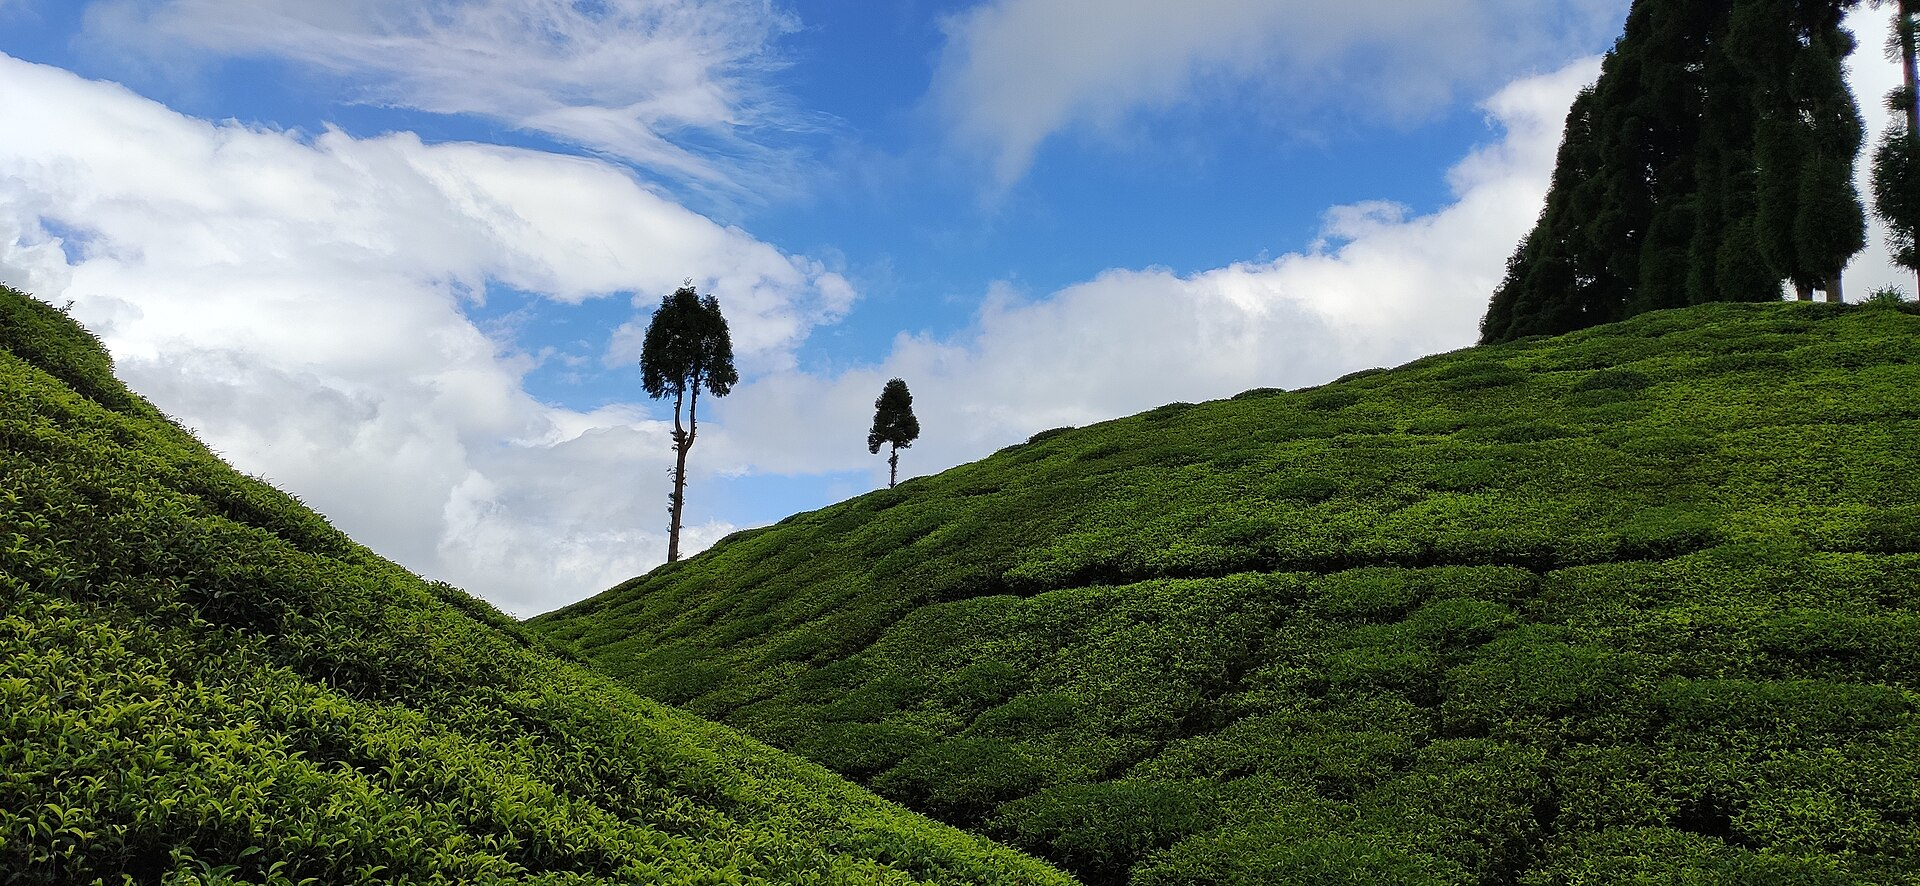
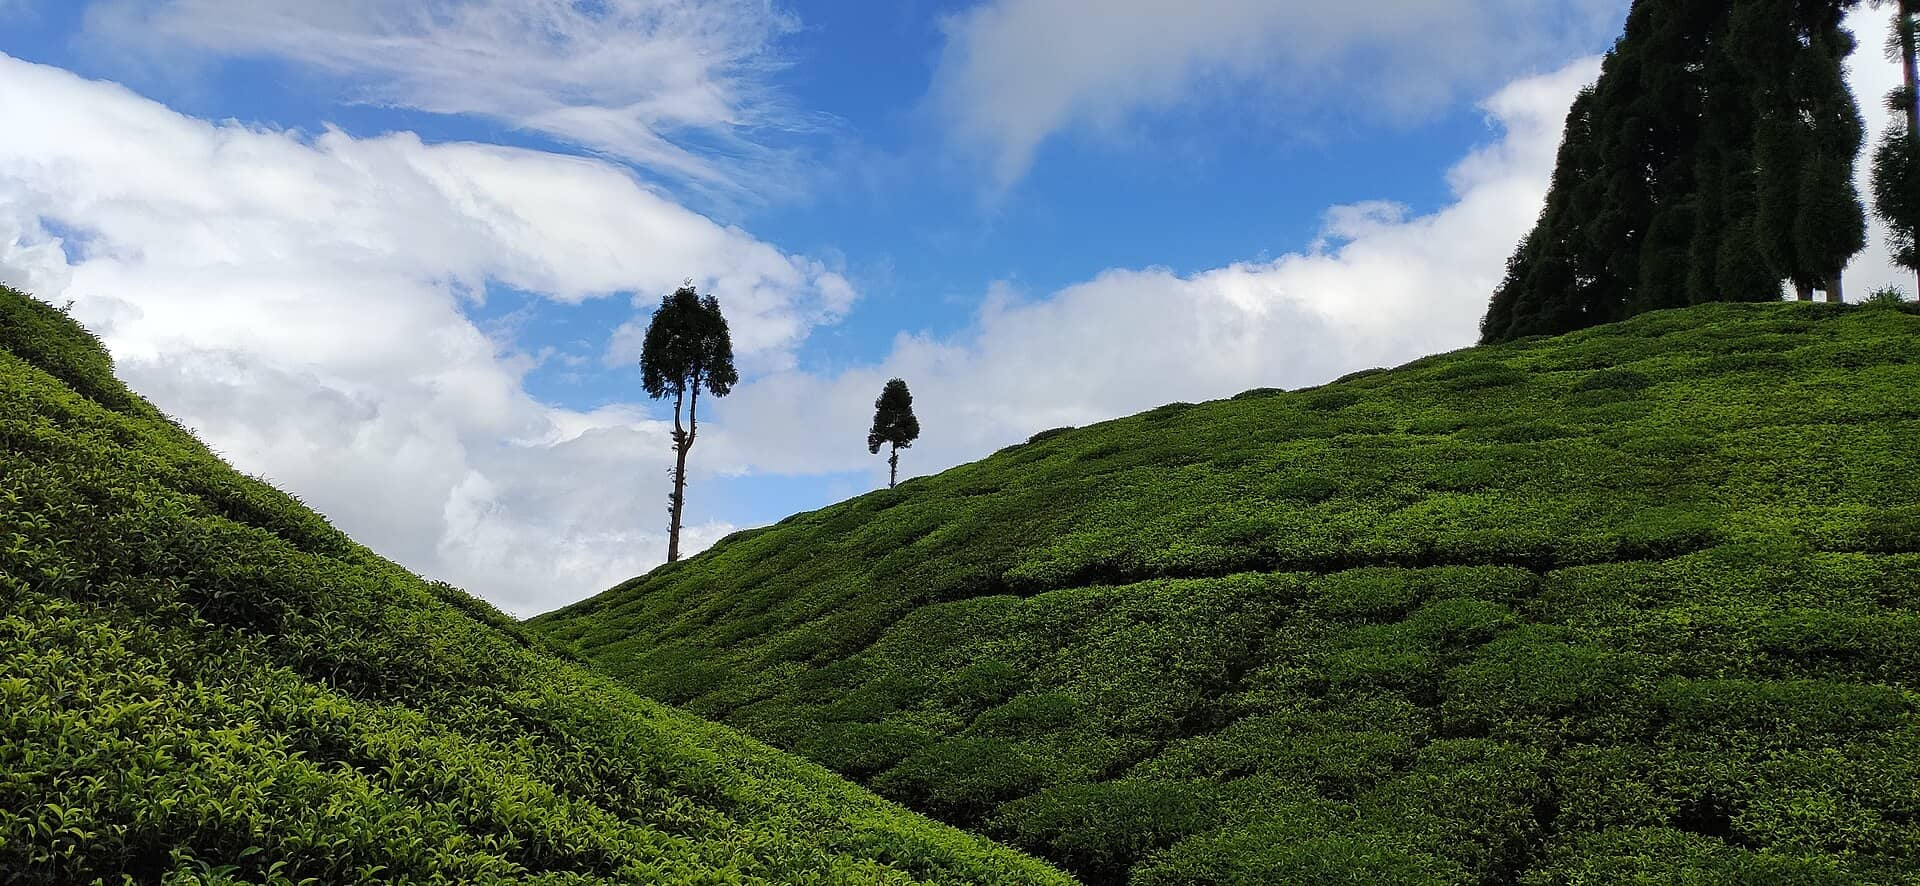
perf: 2D 背景图压缩——首屏图片 716→407KB（-43%），3D 贴图不动
tea-mountain-hero 599→290KB（q70）、tearoom-bg 684→145KB（q80 mozjpeg）；首页/茶室截图复核视觉无损。首屏总传输 1187→878KB（-26%）。PERF_BASELINE 更新，3D 贴图（porcelain/zisha）保持原质。

diff --git a/docs/PERF_BASELINE.md b/docs/PERF_BASELINE.md
@@ -10,17 +10,17 @@
 |---|---|---|
 | JS 总量 | 2.29 MB | tres 3D 引擎 0.80MB + MapView echarts 0.46MB 为路由级 chunk（按需加载） |
 | CSS | 0.12 MB | 单文件 |
-| 图片（非 3D） | ≈2.3 MB | tearoom-bg 0.67 / porcelain 0.62 / hero 0.58 / zisha 0.54 / 茶卡·茶园图 |
+| 图片（非 3D） | ≈1.5 MB | tearoom-bg 0.14 / hero 0.29 / porcelain 0.62 / zisha 0.54 / 茶卡·茶园图（2D 背景图已压缩，见下） |
 | 3D 纹理 | 34.2 MB | 8 张 2K 地形贴图（terrain/*），**不进 precache**，运行时 CacheFirst 按需加载 |
-| **离线包（precache）** | ≈4.7 MB | JS + CSS + 非 3D 图片（3D 纹理排除，见 vite.config globIgnores `**/3d/**`） |
+| **离线包（precache）** | ≈4 MB | JS + CSS + 非 3D 图片（3D 纹理排除，见 vite.config globIgnores `**/3d/**`） |
 
 ## 2. 首页首屏加载（preview 实测）
 
 | 指标 | 值 | 说明 |
 |---|---|---|
 | load 完成 | 114 ms | 本地 preview 参考值（远程会更高） |
-| 总传输 | 1187 KB | 首页首屏全量 |
-| 图片 | 716 KB | **最大项**：Hero 图 0.58MB + 首页茶卡图 |
+| 总传输 | 878 KB | 首页首屏全量（压缩前 1187KB，**-26%**） |
+| 图片 | 407 KB | **已优化**（压缩前 716KB，**-43%**）：Hero 图 599→290KB（q=70）、tearoom-bg 684→145KB（q=80，mozjpeg） |
 | JS | 367 KB | 首屏按需（tres/echarts 均未进入首屏 ✓） |
 | CSS | 99 KB | |
 | 请求数 | 23 | |
@@ -28,9 +28,9 @@
 ## 3. 关键结论
 
 - ✅ **JS 按需加载健康**：tres（0.8MB）与 echarts（0.46MB）都是路由 chunk，首屏只加载 367KB JS
-- ⚠ **图片是优化空间**：Hero 图（tea-mountain-hero 0.58MB）可压至 <300KB（compress-assets 脚本群可用）；首屏图片 716KB → 目标 <400KB
+- ✅ **图片首屏优化已落地**：716KB → 407KB（压缩 2 张 2D 背景图，3D 贴图未动以保渲染质量）；截图复核首页/茶室视觉无损
 - ⚠ **3D 纹理 34MB 是 dist 部署体积大头**：属设计权衡（2K 贴图质量 vs 体积），已按需加载不影响首屏；若 GitHub Pages 部署空间敏感可降 1K 纹理（代价是 3D 地面细节）
-- ℹ 离线包 4.7MB 对 PWA 可接受；3D 页首次访问时纹理走运行时缓存（网络可达时）
+- ℹ 离线包 ≈4MB 对 PWA 可接受；3D 页首次访问时纹理走运行时缓存（网络可达时）
 
 ## 4. 重测命令
 
